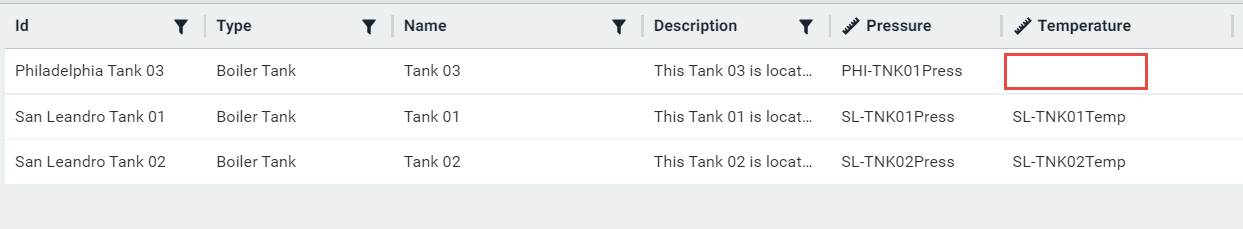
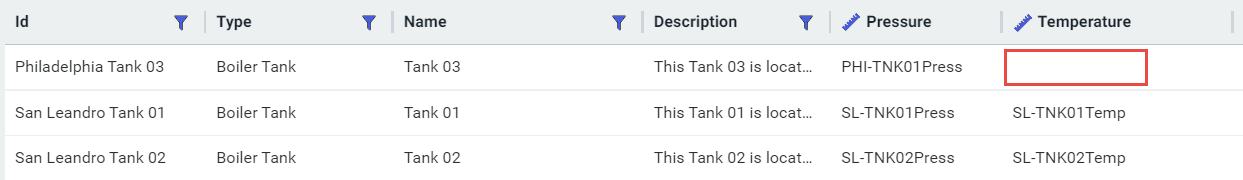
Updates to images for UI rebranding

diff --git a/content/add-organize-data/organize-data/assets/second-rule.md b/content/add-organize-data/organize-data/assets/second-rule.md
@@ -19,17 +19,13 @@ In the [Tank Rule A example](xref:CreateAssetRules#tank), the stream names follo
 
 Therefore, you must create a second asset rule, called Tank Rule B, to identify this stream. The stream name pattern is identical to Tank Rule A, except for the third part of the stream name. In Tank Rule A, this part of the stream name was matched with `the next group of numbers` option. In Tank Rule B, to correctly identify the `PHI-Tank03-Temp` stream, `03` must be matched using `everything preceding the delimiter "-"` option. This token for the third part of the stream name is assigned the name `equipment_Id`, the same name as in Tank Rule A.
 
-**Note:** OSIsoft recommends that you use the same names for all of the tokens in both rules. This naming patern makes it easier to manage the rules and troubleshoot any problems that may occur.
-
-![stream name pattern - rule 2 token](images/second-rule-token.png)
+**Note:** Use the same names for all of the tokens in both rules. This naming patern makes it easier to manage the rules and troubleshoot any problems that may occur.
 
 Set up the mappings and configure the asset as described in [Create an asset rule](xref:CreateAssetRules).
 
-![Configure asset - rule 2](images/configure-asset-page-rule2.png)
-
 **Note:** The **Id** and **Name** for both rules must resolve to the same values to achieve the intended result, that is one asset that references both streams. If the Ids are different, then two assets with the name `Philadelphia 03` are created, one that references the `Pressure` stream and the other that references the `Temperature` stream.
 
-OSIsoft recommends that you configure the other asset fields, **Description** and **Metadata** the same in both rules.
+Be sure to configure the other asset fields, **Description** and **Metadata** the same in both rules.
 
 The following is the asset preview of Tank Rule B which matches the `PHI-Tank03-Temp` stream for the `Philadelphia Tank 03` asset.
 
